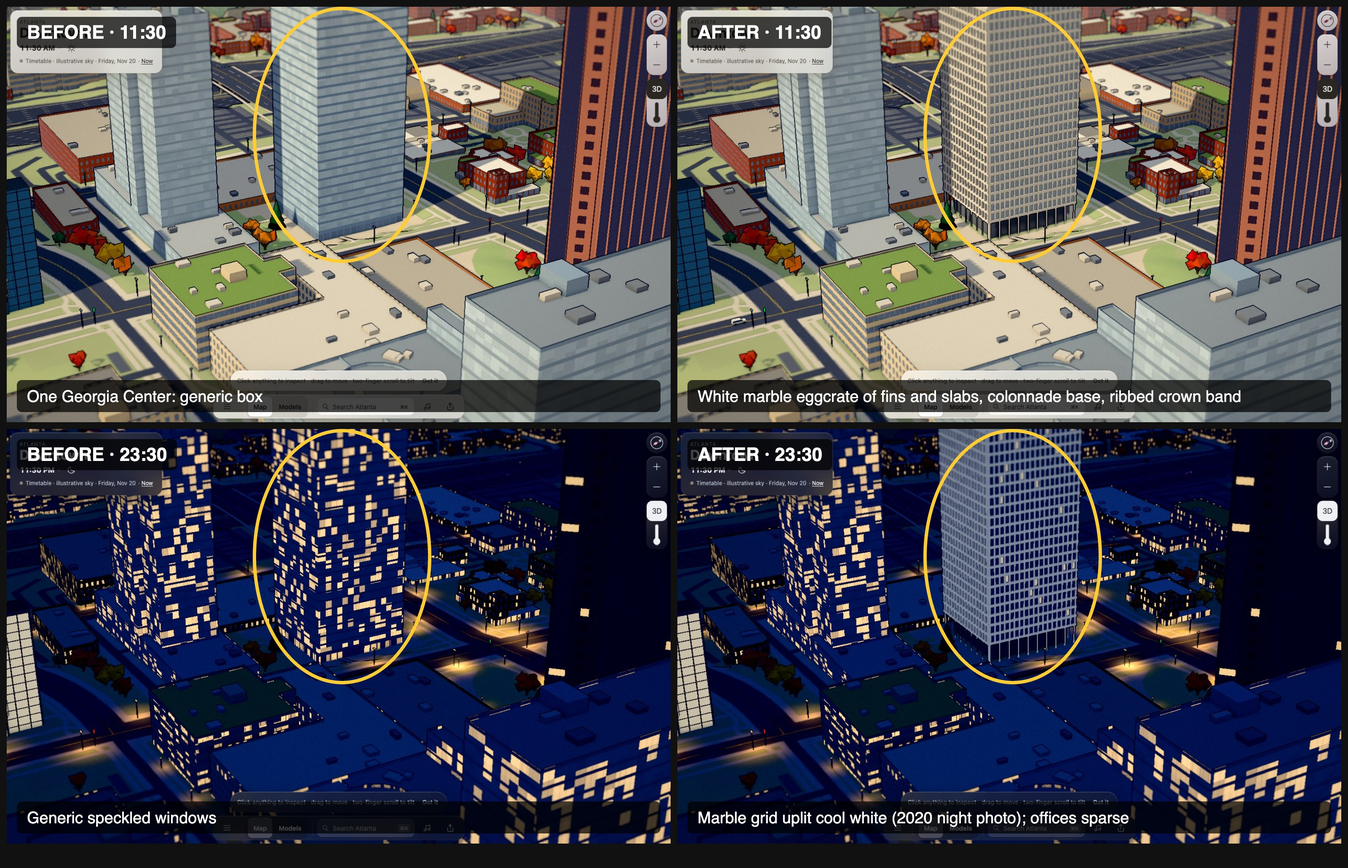
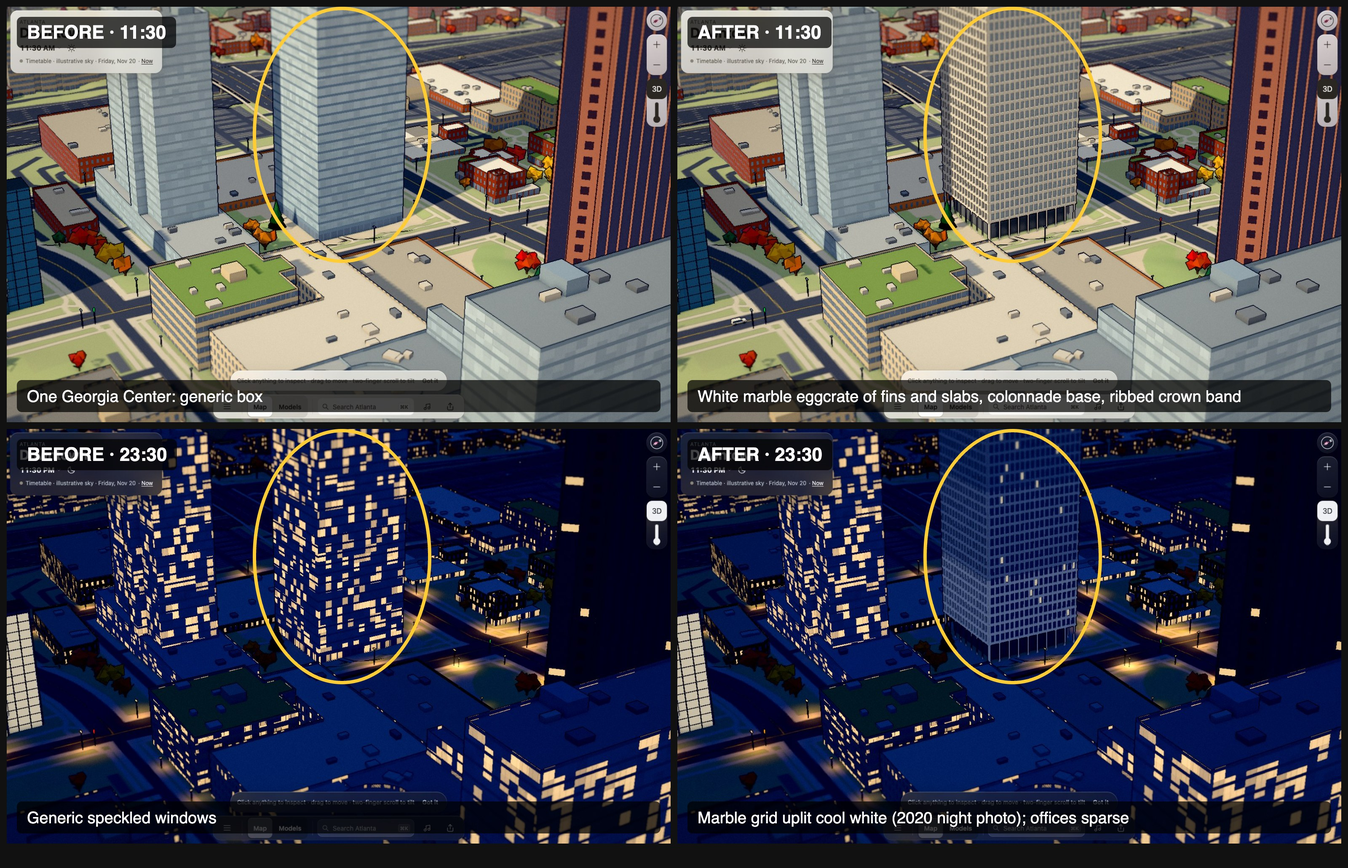
One Georgia Center: grade the floodlight in three height bands, lower the peak, tint it toward the night grade

Changed region(s): [[0.6875, 0.4971, 0.8125, 0.7456]]

diff --git a/web/src/city/one-georgia-center.ts b/web/src/city/one-georgia-center.ts
@@ -61,8 +61,28 @@ export function createOneGeorgiaCenter(buildings: VBuilding[], site: VBuilding, 
   const y = (h: number) => groundNavd + h;
   const seed = seedOf(site.id);
   const plan = straighten(ccw(s.ring));
-  // The floodlit white grid: lit by its own cool-white material, so offices stay warm.
-  const wash = new Builder();
+  // The floodlit white frame, graded in three height bands because uplighting is brightest
+  // near its fixtures at the base and falls off up the shaft (see the 2020 night photo).
+  const bands = [new Builder(), new Builder(), new Builder()];
+  const cuts = [y(36), y(72)];
+  const band = (yy: number) => (yy < cuts[0] ? 0 : yy < cuts[1] ? 1 : 2);
+  /** Routes a quad to its height band, splitting upright quads at the band boundaries. */
+  const wash = {
+    quad(p0: number[], p1: number[], p2: number[], p3: number[], color: string) {
+      const lo = Math.min(p0[1], p3[1]), hi = Math.max(p1[1], p2[1]);
+      const upright = p0[1] === p3[1] && p1[1] === p2[1] && p1[1] > p0[1];
+      if (!upright) { bands[band((p0[1] + p1[1] + p2[1] + p3[1]) / 4)].quad(p0, p1, p2, p3, color); return; }
+      const at = (p: number[], q: number[], yy: number) => {
+        const t = (yy - p[1]) / (q[1] - p[1]);
+        return [p[0] + (q[0] - p[0]) * t, yy, p[2] + (q[2] - p[2]) * t];
+      };
+      const stops = [lo, ...cuts.filter(c => c > lo && c < hi), hi];
+      for (let i = 0; i + 1 < stops.length; i++) {
+        const [a, b] = [stops[i], stops[i + 1]];
+        bands[band((a + b) / 2)].quad(at(p0, p1, a), at(p0, p1, b), at(p3, p2, b), at(p3, p2, a), color);
+      }
+    },
+  } as unknown as Builder;
 
   const quad = (b: Builder, a: P2, c: P2, t0: number, t1: number, lo: number, hi: number, out: number, color: string) => {
     const dx = c[0] - a[0], dz = c[1] - a[1], l = Math.hypot(dx, dz);
@@ -130,15 +150,21 @@ export function createOneGeorgiaCenter(buildings: VBuilding[], site: VBuilding, 
   });
 
   const built = s.finish('#f2e6cf', 0.6);
-  const washMesh = new Mesh(wash.geometry(),
-    new MeshLambertMaterial({ vertexColors: true, side: DoubleSide, emissive: '#dfe7ee', emissiveIntensity: 0 }));
-  washMesh.castShadow = washMesh.receiveShadow = true;
-  built.group.add(washMesh);
+  // Peak 0.2 at the base, about half mid-shaft and a third at the crown. The cool white leans
+  // slightly toward the night grade so it sits in the scene rather than on it.
+  const grade = [0.2, 0.11, 0.065];
+  const washes = bands.map(b => {
+    const mesh = new Mesh(b.geometry(),
+      new MeshLambertMaterial({ vertexColors: true, side: DoubleSide, emissive: '#c8d2e4', emissiveIntensity: 0 }));
+    mesh.castShadow = mesh.receiveShadow = true;
+    built.group.add(mesh);
+    return mesh;
+  });
   return {
     ...built,
     setNight(night: number) {
       built.setNight(night);
-      washMesh.material.emissiveIntensity = night * 0.3;
+      washes.forEach((mesh, i) => { mesh.material.emissiveIntensity = night * grade[i]; });
     },
   };
 }

diff --git a/web/src/city/one-georgia-center.test.ts b/web/src/city/one-georgia-center.test.ts
@@ -34,13 +34,17 @@ it('sets the roof and penthouse at their lidar heights', () => {
 
 it('lights a sparse set of offices and the floodlit marble grid, inside the routine budget', () => {
   const result = createOneGeorgiaCenter([site], site, grid)!;
-  expect(result.group.children).toHaveLength(3);
-  expect(triangles(result.group)).toBeLessThan(1400);
+  expect(result.group.children).toHaveLength(5);
+  expect(triangles(result.group)).toBeLessThan(2000);
   result.setNight(1);
-  const [, lamps, wash] = result.group.children as Mesh<BufferGeometry, MeshLambertMaterial>[];
+  const [, lamps, ...washes] = result.group.children as Mesh<BufferGeometry, MeshLambertMaterial>[];
   expect(lamps.material.emissiveIntensity).toBeCloseTo(0.6);
-  expect(wash.material.emissiveIntensity).toBeCloseTo(0.3);
-  expect(wash.castShadow && wash.receiveShadow).toBe(true);
+  // The floodlight falls off up the shaft: base, mid-shaft, crown.
+  const lit = washes.map(w => w.material.emissiveIntensity);
+  expect(lit[0]).toBeGreaterThan(lit[1]);
+  expect(lit[1]).toBeGreaterThan(lit[2]);
+  expect(lit[2]).toBeCloseTo(lit[0] / 3, 1);
+  expect(washes.every(w => w.castShadow && w.receiveShadow && w.geometry.attributes.position.count > 0)).toBe(true);
   result.setNight(0);
-  expect(wash.material.emissiveIntensity).toBe(0);
+  expect(washes.every(w => w.material.emissiveIntensity === 0)).toBe(true);
 });

diff --git a/docs/build-log.md b/docs/build-log.md
@@ -3443,4 +3443,4 @@ dark. [Before and after](log/ui/two-midtown-plaza/compare-day.jpg) ·
 
 ### 2026-11-24 · One Georgia Center's marble grid
 
-The 113 m tower at 600 West Peachtree had no name in the data. A reverse lookup and the OSM tags (built 1968) identified it as One Georgia Center, the Life of Georgia headquarters, clad in white Georgia marble. Its face is a deep eggcrate: close vertical fins and projecting floor slabs over pale glass. In City it is drawn as full-height marble strips and slabs standing 0.9 m off a glass box, with a colonnade base and a solid ribbed band at the top. The grid shades its own panes. The first glass colour passed the palette table, but the rendered-pixel check measured sunlit glass at V 37, under the floor, so the base went up to V 76 and the panes landed at V 42. A 2020 Commons night photo shows the marble uplit cool white, so the grid gets its own lit material. The building is landmark tier: about 1,000 low-tier triangles and three meshes. [Before and after](log/ui/one-georgia-center/compare-west.jpg)
+The 113 m tower at 600 West Peachtree had no name in the data. A reverse lookup and the OSM tags (built 1968) identified it as One Georgia Center, the Life of Georgia headquarters, clad in white Georgia marble. Its face is a deep eggcrate: close vertical fins and projecting floor slabs over pale glass. In City it is drawn as full-height marble strips and slabs standing 0.9 m off a glass box, with a colonnade base and a solid ribbed band at the top. The grid shades its own panes. The first glass colour passed the palette table, but the rendered-pixel check measured sunlit glass at V 37, under the floor, so the base went up to V 76 and the panes landed at V 42. A 2020 Commons night photo shows the marble uplit cool white. The first version lit the whole frame flat from pavement to crown, which read as a daytime texture pasted into the night, so the floodlight is now three height bands that fall to a third at the crown. The building is landmark tier: about 1,600 low-tier triangles and five meshes. [Before and after](log/ui/one-georgia-center/compare-west.jpg)

diff --git a/docs/log/ui/one-georgia-center/README.md b/docs/log/ui/one-georgia-center/README.md
@@ -42,7 +42,7 @@ The sunlit reading passes (S ≤ 36, V ≥ 40). The shaded and lobby readings ar
 
 ## Lighting
 
-- **Grid and crown:** the floodlit marble, including the colonnade, fins, slabs and ribbed crown band, uses its own cool-white lit material (`#dfe7ee`) at 0.3 × the night factor, changed only in `setNight`. The 2020 night photo shows the whole white frame uplit.
+- **Floodlighting (reported, 2020):** the evidence is one photo, the [Commons night view of 28 September 2020](https://commons.wikimedia.org/wiki/File:One_Georgia_Center_at_night.jpg), so revisit it if newer night photos appear. Uplighting in it is brightest near the base and falls off up the shaft, and the glass between the fins stays dark. Both faces in the photo are lit: the plaza face strongly and full height, the street face more softly. The two faces it cannot see are assumed to match, since the tower stands free on its plaza. The marble frame (colonnade, fins, slabs and crown band) is split into three height bands with their own lit material (`#c8d2e4`, a cool white leaning toward the night grade). Their intensity is 0.2, 0.11 and 0.065 × the night factor, from the base to the crown, so the crown gets about a third of the base. It is changed only in `setNight`. On first review the frame was lit flat at 0.3 from pavement to crown, which made it the brightest thing in the downtown night view. It now reads as notable, not dominant, beside its lit neighbours (`context-night.jpg`, camera `400,-1600,345,64,1000`).
 - **Offices:** about 4% lit at 23:30, from the shared `litHash`.
 - Everything is `illustrative` ambient scenery and is not labelled on screen.
 
@@ -54,4 +54,5 @@ Clock 2026-11-20. Prefix each camera with `/?view=city&cam=`.
 |---|---|---|
 | West face, day / night / low tier | `341,-1881,300,66,460` | 11:30 / 23:30 / 11:30 `&q=low` |
 | North-west, day | `341,-1881,230,66,520` | 11:30 |
+| Night context with neighbours | `400,-1600,345,64,1000` | 23:30 |
 | Close (colonnade and eggcrate) | as above, `&dev&mindist=20` plus `__setView(300,70,300,341,-1881,3)` | 11:30 / 23:30 |
